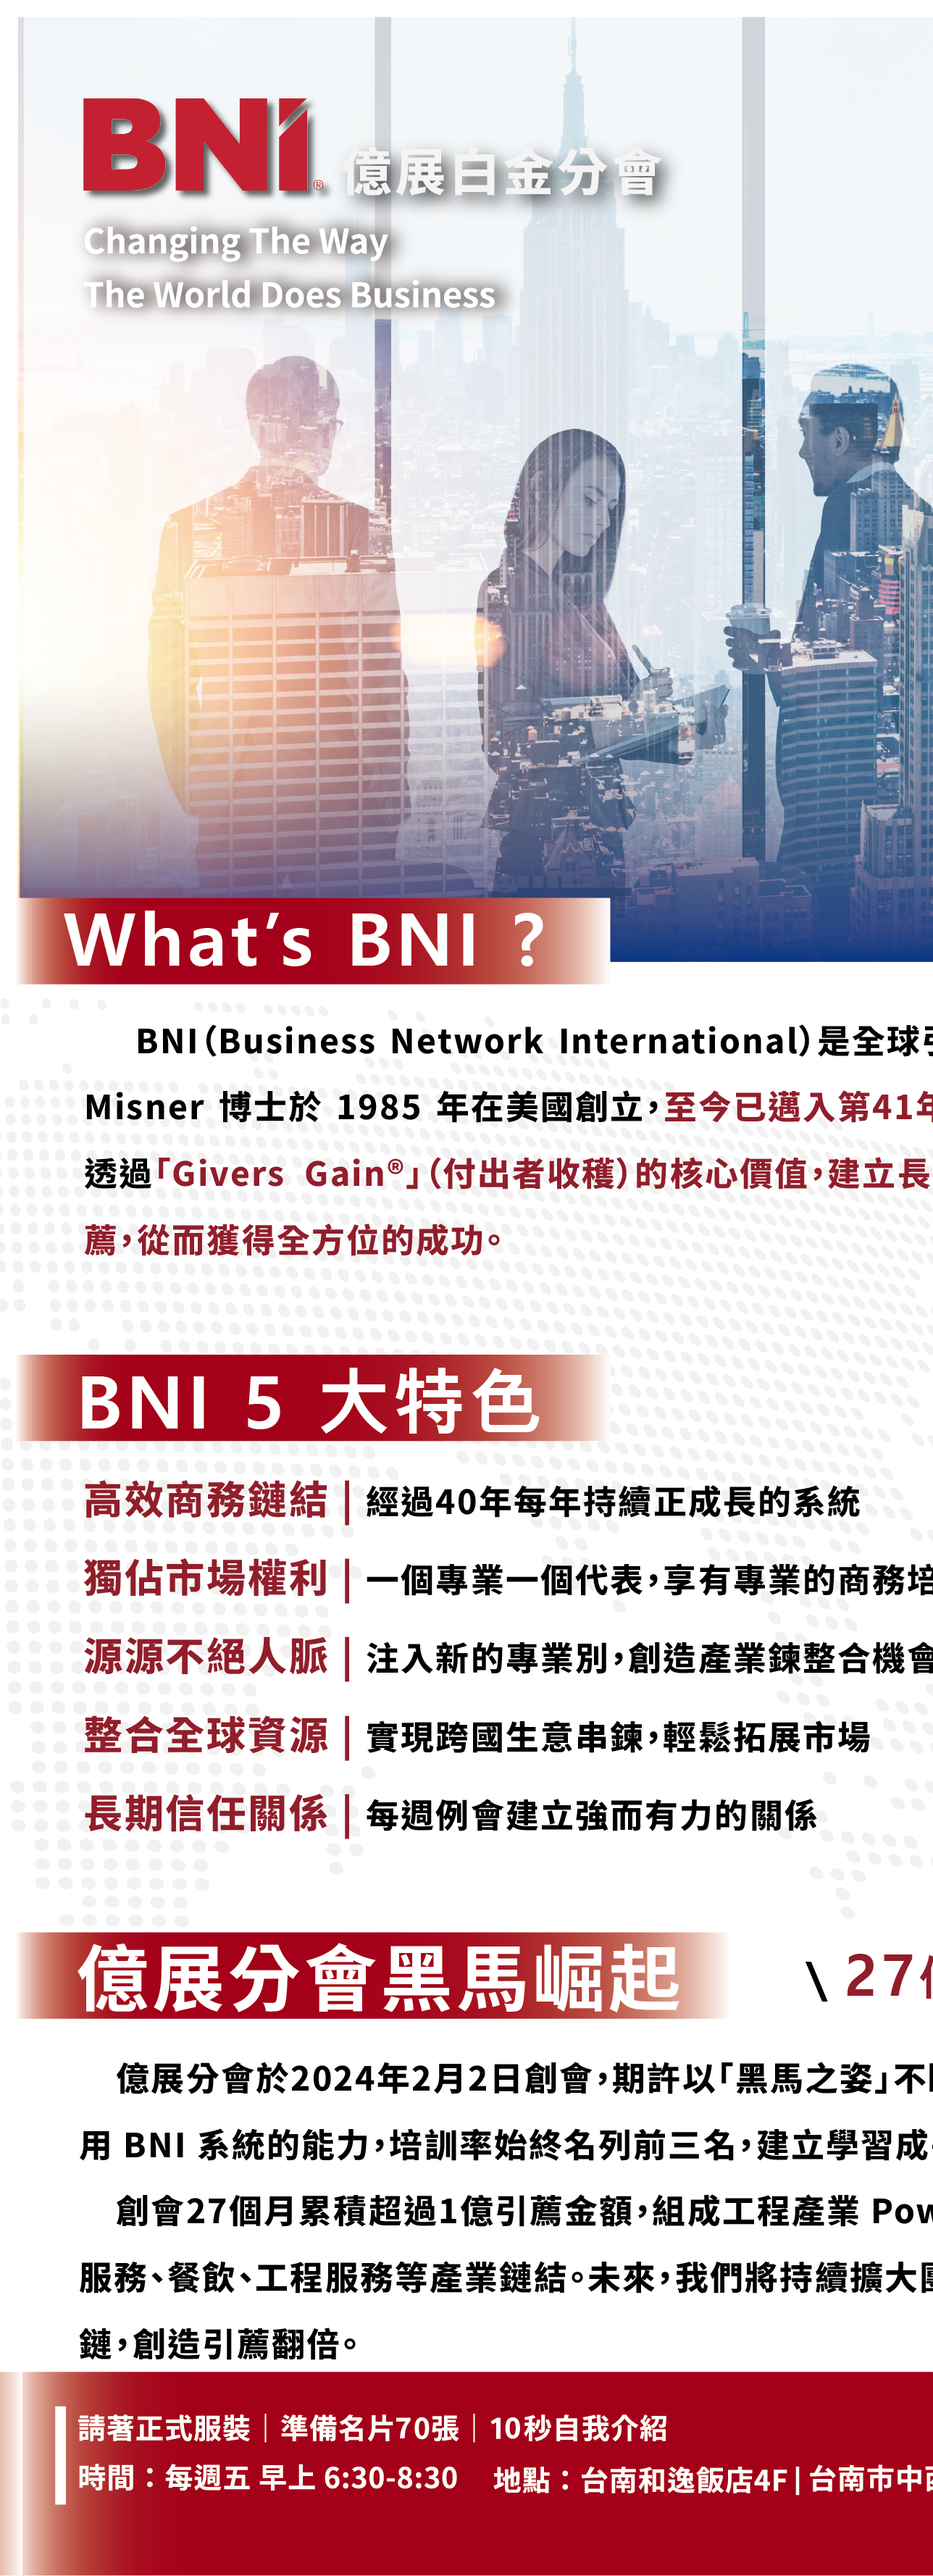
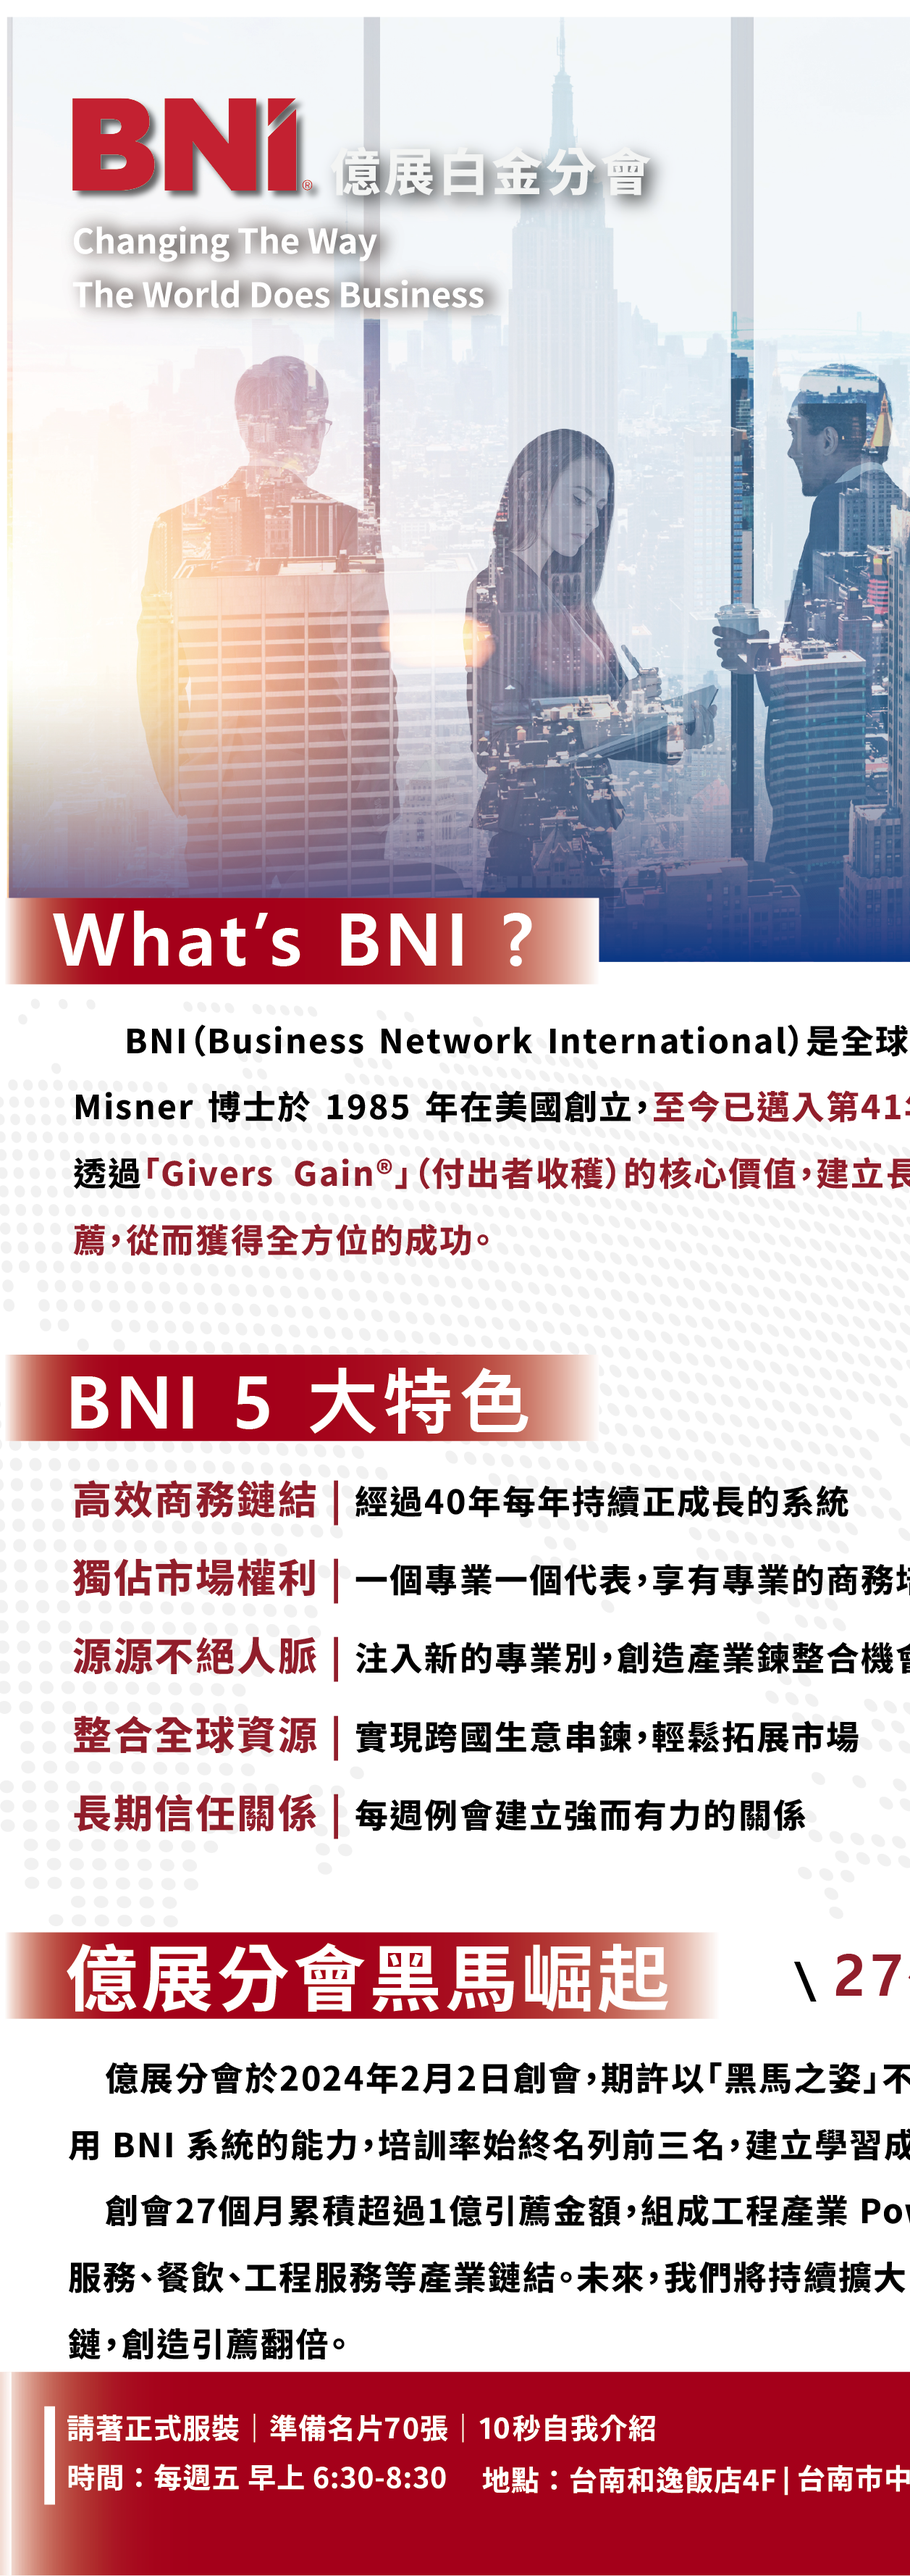
fix: 裁切 P3/P4 至正確 105:297 比例修正銜接錯位
- dm_p3.png、dm_p4.png 從 1288x3556 裁切為 1257x3556
- 所有 8 張面板現在比例一致（0.3535）
- QR 位置微調對應裁切後的紅框
- 上傳說明改為建議 1240x3508 (300 DPI)

diff --git a/src/dm-bg.js b/src/dm-bg.js
@@ -34,8 +34,8 @@ async function renderDMBackgrounds() {
   </div>`);
 
   parts.push(`<div style="font-size:12px;color:var(--text-soft);background:#fef9e7;border:1px solid #fcf3cf;padding:10px 14px;border-radius:8px;margin-bottom:16px;line-height:1.5;">
-    上傳後，DM 渲染會自動使用新底圖。建議尺寸：<strong>單面板 1288 × 3556 px</strong>（對應 105mm × 297mm 印刷）。<br>
-    P4 需保留 QR 紅框位置（水平 63.8%~91.4%、垂直 80.8%~89.7%）。
+    上傳後，DM 渲染會自動使用新底圖。建議尺寸：<strong>1240 × 3508 px</strong>（單面板 105mm × 297mm，300 DPI 印刷品質）。<br>
+    比例需嚴格為 105:297，不正確會造成銜接錯位。P4 需保留 QR 紅框位置（水平 64.1%~92.4%、垂直 80.8%~89.7%）。
   </div>`);
 
   parts.push(`<div style="display:grid;grid-template-columns:repeat(4,1fr);gap:10px;margin-bottom:18px;">`);

diff --git a/src/dm.js b/src/dm.js
@@ -317,7 +317,7 @@ async function renderDM() {
         <img style="position:absolute;left:50%;top:0;width:25%;height:100%;object-fit:fill;display:block;" src="${_dmBgSrc(3)}" alt="" crossorigin="anonymous">
         <img style="position:absolute;left:75%;top:0;width:25%;height:100%;object-fit:fill;display:block;" src="${_dmBgSrc(4)}" alt="" crossorigin="anonymous">
         ${dividers}
-        <div id="dmQRPreview" style="position:absolute;left:828px;top:520px;width:44px;height:44px;display:flex;align-items:center;justify-content:center;z-index:8;">
+        <div id="dmQRPreview" style="position:absolute;left:829px;top:520px;width:44px;height:44px;display:flex;align-items:center;justify-content:center;z-index:8;">
           <div id="dmQRBox" style="width:44px;height:44px;"></div>
         </div>
         ${ov(0,0,true)}${ov(1,1,true)}

diff --git a/index.html b/index.html
@@ -76,8 +76,8 @@
 <script src="src/member.js?v=20260512e"></script>
 <script src="src/renewal.js?v=20260512w"></script>
 <script src="https://cdn.jsdelivr.net/npm/qr-code-styling@1.9.2/lib/qr-code-styling.js"></script>
-<script src="src/dm.js?v=20260512m"></script>
-<script src="src/dm-bg.js?v=20260512a"></script>
+<script src="src/dm.js?v=20260512n"></script>
+<script src="src/dm-bg.js?v=20260512b"></script>
 <script src="src/slogan.js?v=20260508a"></script>
 <script src="src/plate.js?v=20260508b"></script>
 <script src="src/signin.js?v=20260508b"></script>
